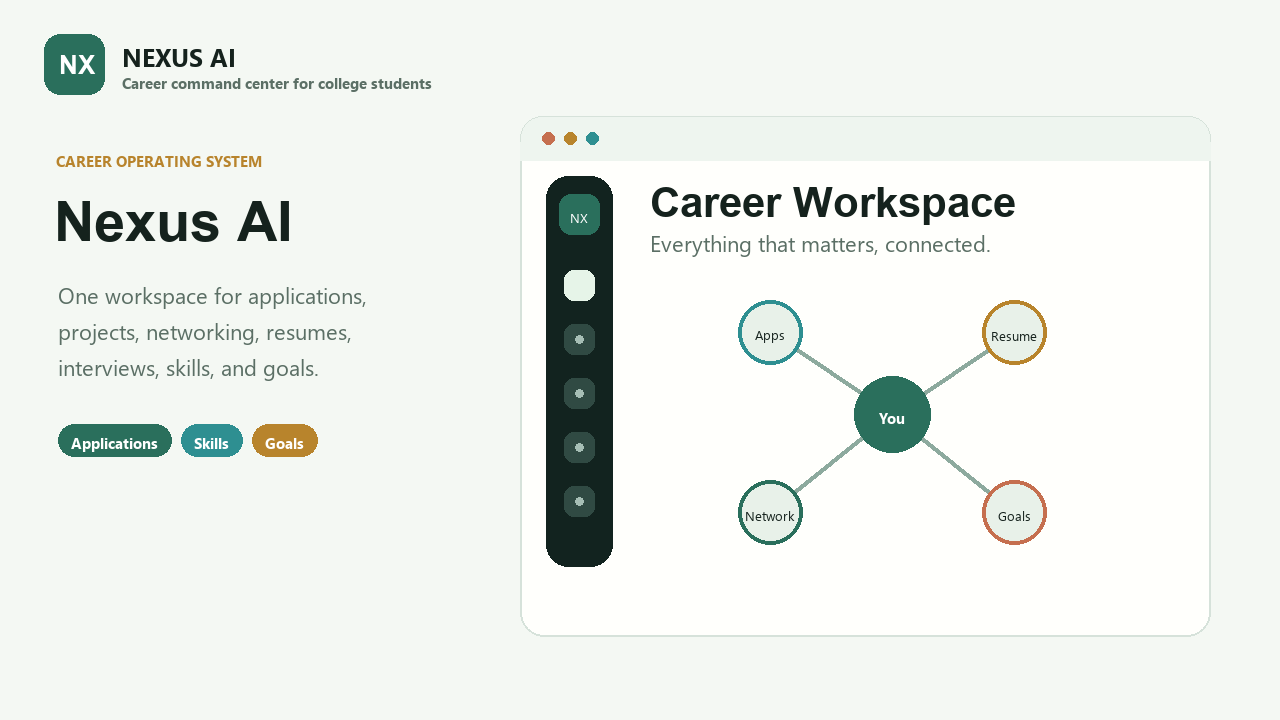
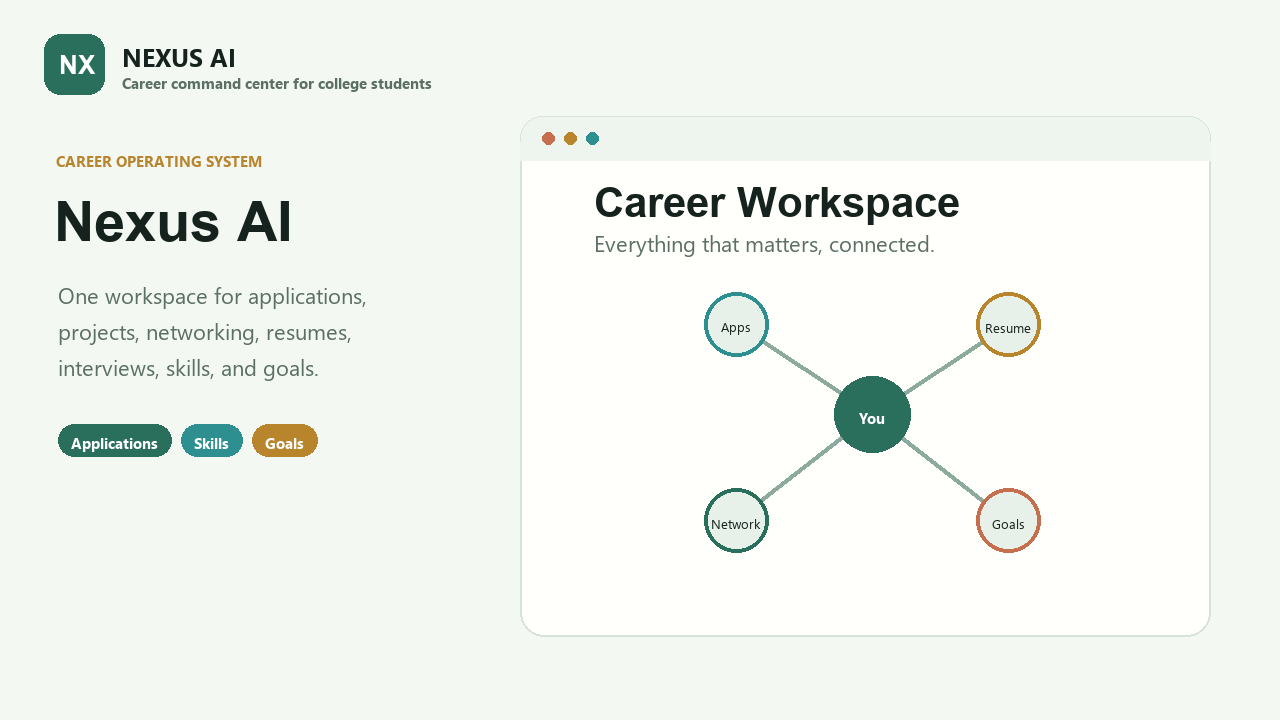
Clean Nexus walkthrough card layout

Changed region(s): [[0.4062, 0.2444, 0.8125, 0.7944], [0.5312, 0.3972, 0.8438, 0.7639]]

diff --git a/scripts/build-demo-gif.py b/scripts/build-demo-gif.py
@@ -113,13 +113,12 @@ def metric_card(draw, x, y, title, value, color):
 
 def card(draw, box, title, eyebrow=None):
     rounded(draw, box, 18, PANEL, LINE, 2)
-    x1, y1, x2, _ = box
+    x1, y1, _, _ = box
     if eyebrow:
         text(draw, (x1 + 22, y1 + 18), eyebrow.upper(), GOLD, F_SMALL)
         text(draw, (x1 + 22, y1 + 42), title, INK, F_H2)
     else:
         text(draw, (x1 + 22, y1 + 22), title, INK, F_H2)
-    draw.line((x1 + 22, y1 + 72, x2 - 22, y1 + 72), fill=LINE, width=2)
 
 
 def draw_score_ring(draw, cx, cy, score):
@@ -145,16 +144,15 @@ def shell_slide():
         x = draw_tag(draw, x, 424, label, color)
 
     draw_window(draw, 520, 116, 690, 520)
-    draw_sidebar(draw, 546, 176, 390)
-    text(draw, (650, 178), "Career Workspace", INK, F_H1)
-    text(draw, (650, 228), "Everything that matters, connected.", MUTED, F_BODY)
+    text(draw, (594, 178), "Career Workspace", INK, F_H1)
+    text(draw, (594, 228), "Everything that matters, connected.", MUTED, F_BODY)
 
     nodes = {
-        "You": (892, 414, GREEN),
-        "Apps": (770, 332, TEAL),
-        "Resume": (1014, 332, GOLD),
-        "Network": (770, 512, GREEN),
-        "Goals": (1014, 512, CLAY),
+        "You": (872, 414, GREEN),
+        "Apps": (736, 324, TEAL),
+        "Resume": (1008, 324, GOLD),
+        "Network": (736, 520, GREEN),
+        "Goals": (1008, 520, CLAY),
     }
     for a, b in [("You", "Apps"), ("You", "Resume"), ("You", "Network"), ("You", "Goals")]:
         draw.line((nodes[a][0], nodes[a][1], nodes[b][0], nodes[b][1]), fill=(141, 170, 158), width=4)
@@ -184,12 +182,12 @@ def dashboard_slide():
     metric_card(draw, 700, 356, "Projects", "4", TEAL)
     metric_card(draw, 868, 356, "Network", "3", GOLD)
     metric_card(draw, 1036, 356, "Coverage", "25%", CLAY)
-    card(draw, (532, 474, 852, 628), "AI Coach")
+    card(draw, (532, 462, 852, 634), "AI Coach")
     for i, item in enumerate(["Pipeline move", "Portfolio proof", "Interview readiness"]):
-        text(draw, (558, 554 + i * 28), item, INK if i == 0 else MUTED, F_SMALL)
-    card(draw, (882, 474, 1188, 628), "Weekly Career Plan")
+        text(draw, (558, 532 + i * 32), item, INK if i == 0 else MUTED, F_SMALL)
+    card(draw, (882, 462, 1188, 634), "Weekly Career Plan")
     for i, item in enumerate(["Resolve overdue items", "Add applications", "Network outreach"]):
-        text(draw, (908, 554 + i * 28), item, INK if i == 0 else MUTED, F_SMALL)
+        text(draw, (908, 532 + i * 32), item, INK if i == 0 else MUTED, F_SMALL)
     return canvas
 
 
